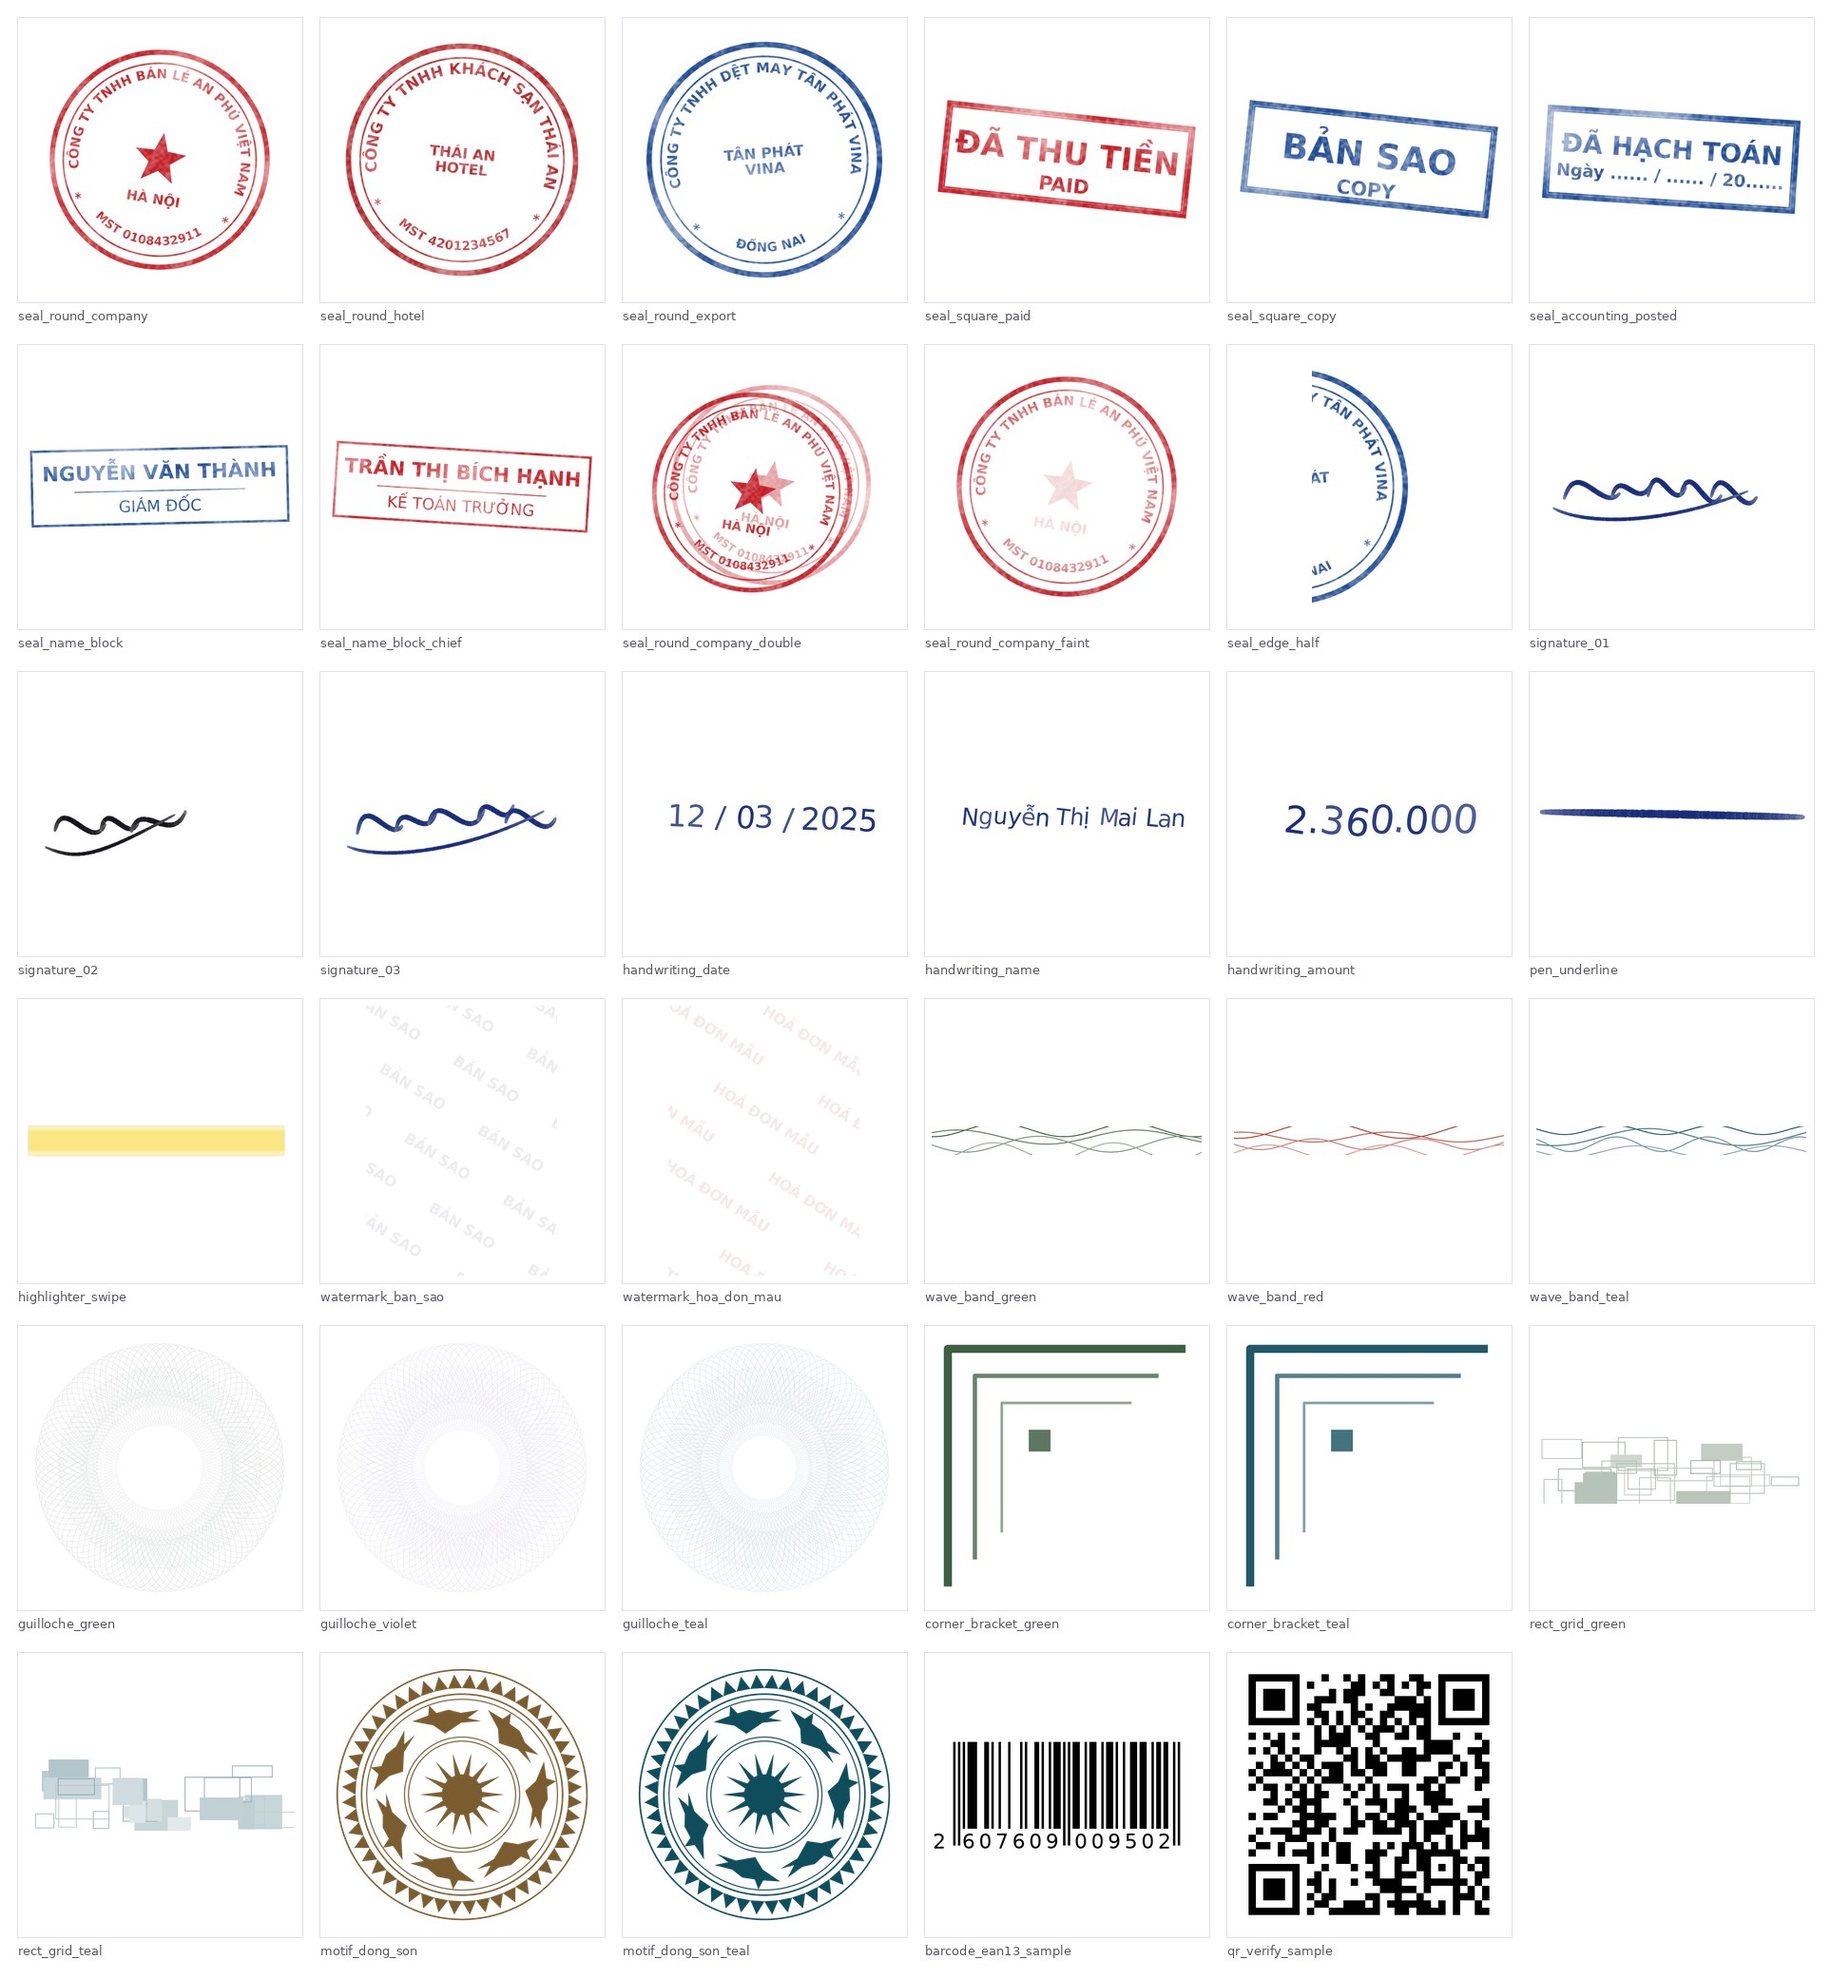
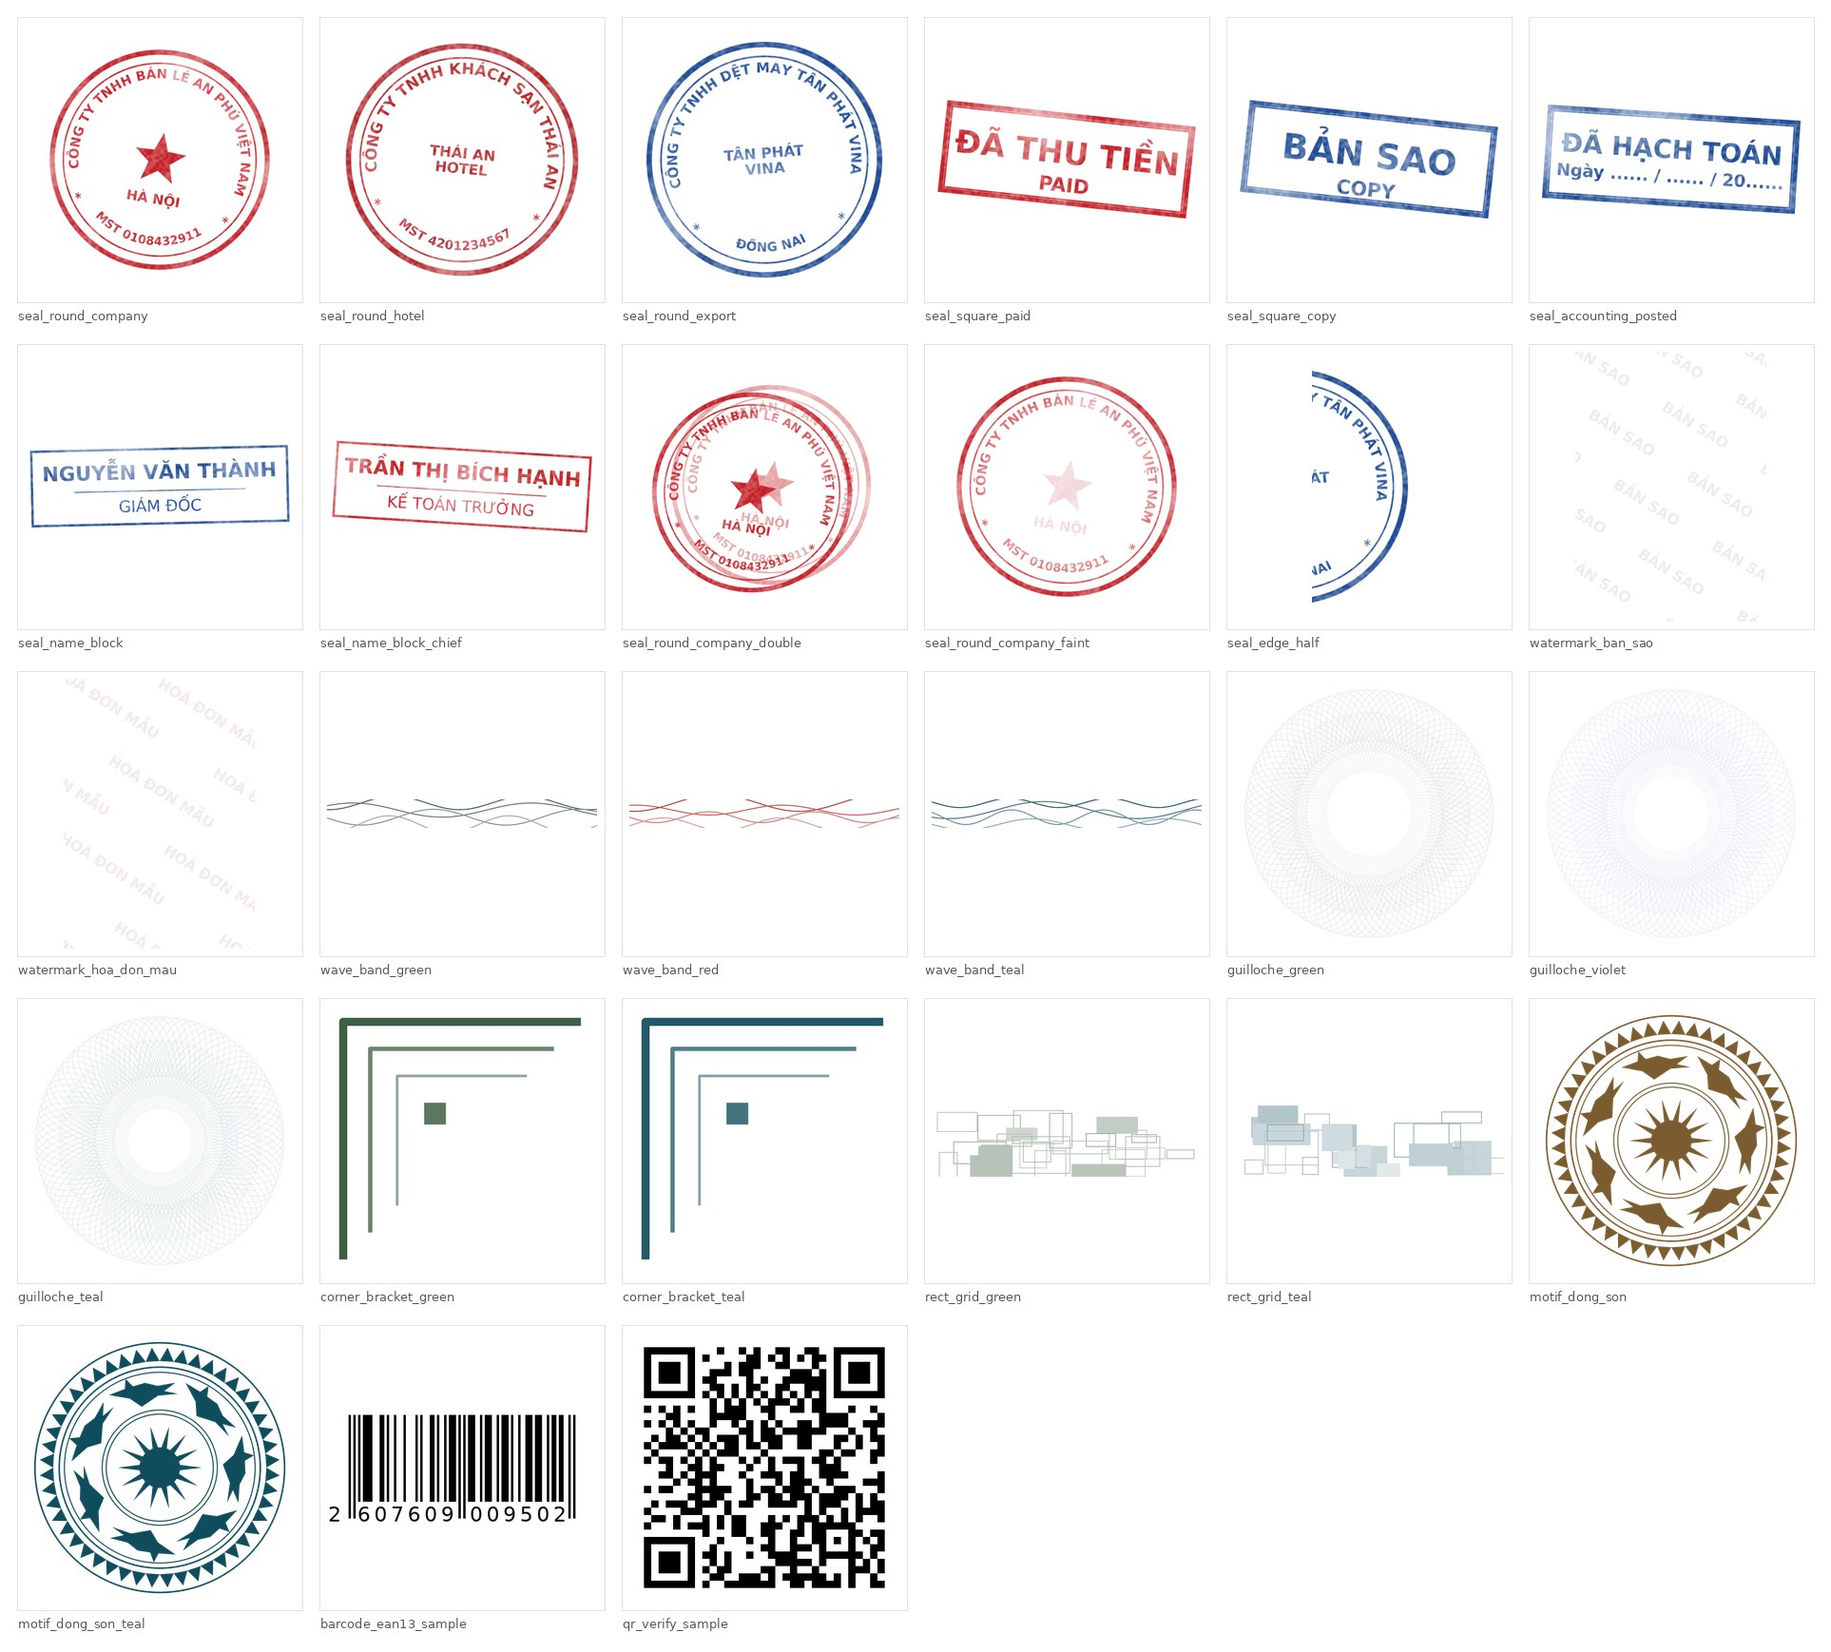
Drop the hand marks: a jittered typeface is not handwriting
Signatures, handwritten field values, pen underlines and highlighter swipes are
removed -- the code that drew them, the eight PNGs, and the `hand` node in
rules/ornament.yaml.

The fault was in the approach, not in the parameters. The handwriting took a
printed face and disturbed each glyph: slant, offset, weight. Beside a real
scan it is still printed type with a shake, because the stroke shapes are still
printed stroke shapes -- no lift of the pen, no joins, no ink pooling where a
stroke ends. The signature was a chain of Béziers with varying width, which
produces a squiggle; a real signature is a rehearsed motion, not a random
curve, and the difference is visible immediately.

Getting it right wants stroke data -- pen coordinates over time -- or a
hand-drawn face licensed for redistribution. It does not want more jitter,
which is the direction the last pass went and where it went wrong.

`seal_name_block` was in the `hand` node and is not a hand mark; it moves to
`seal`, paired with the round seal it is stamped beside on real Vietnamese
paper. That pairing is why it needs to share one value: the attribute draws
once per page.

Twenty-seven ornaments remain, all of them ink a machine laid down. The four
dropped are written into docs/hoa-tiet-de-xuat.md as surveyed-and-removed,
with what was tried and why it failed -- more useful than listing them as
never-attempted. `pen_underline` is noted as the one most easily rescued: a
[…]

diff --git a/tools/make_ornaments.py b/tools/make_ornaments.py
@@ -18,6 +18,13 @@ rotated to the tangent of a circle. So the drawing happens once, here, into PNGs
 with an alpha channel; the ageing and compositing that synthtiger and
 `degradation/` are good at then treat the result like any other overlay.
 
+**No hand marks here.** Signatures, handwritten field values, pen underlines
+and highlighter swipes were drawn and then dropped: a typeface jittered per
+glyph is not handwriting, and a procedural squiggle is not a signature. Both
+read as what they are the moment you put them beside a scan. Doing it properly
+needs stroke data or a hand-drawn face with a licence to redistribute, not more
+jitter -- see docs/hoa-tiet-de-xuat.md.
+
 Company names, tax codes and addresses below are invented for synthetic data.
 They are not real businesses.
 """
@@ -408,163 +415,6 @@ def name_block_seal(name: str, title: str, *, seed: int, width: int = 620,
     return canvas.rotate(rng.uniform(-6, 6), resample=Image.BICUBIC, expand=True)
 
 
-# ------------------------------------------------------------------ nét tay
-
-def _pen_stroke(draw: ImageDraw.ImageDraw, points: list[tuple[float, float]],
-                colour: tuple[int, int, int], width: float, rng: random.Random) -> None:
-    """Vẽ một nét bút: bề rộng thay đổi dọc nét, đậm nhạt theo tốc độ tay.
-
-    Vẽ bằng chuỗi hình tròn chồng nhau chứ không bằng `line`, vì `line` cho nét
-    đều tăm tắp -- thứ mà bút bi không bao giờ cho.
-    """
-    for index in range(len(points) - 1):
-        (x0, y0), (x1, y1) = points[index], points[index + 1]
-        steps = max(int(math.hypot(x1 - x0, y1 - y0) / 2) + 1, 1)
-        for step in range(steps):
-            t = step / steps
-            x, y = x0 + (x1 - x0) * t, y0 + (y1 - y0) * t
-            # nét mảnh dần ở hai đầu, và rung nhẹ suốt dọc
-            along = (index + t) / max(len(points) - 1, 1)
-            taper = 0.45 + 0.55 * math.sin(math.pi * min(max(along, 0), 1)) ** 0.4
-            r = width * taper * rng.uniform(0.85, 1.15) / 2
-            alpha = int(255 * min(taper * rng.uniform(0.80, 1.0) + 0.12, 1.0))
-            draw.ellipse([x - r, y - r, x + r, y + r], fill=colour + (alpha,))
-
-
-def _bezier(control: list[tuple[float, float]], samples: int = 60) -> list[tuple[float, float]]:
-    points = []
-    for step in range(samples + 1):
-        t = step / samples
-        current = list(control)
-        while len(current) > 1:
-            current = [(a[0] + (b[0] - a[0]) * t, a[1] + (b[1] - a[1]) * t)
-                       for a, b in zip(current, current[1:])]
-        points.append(current[0])
-    return points
-
-
-def signature(*, seed: int, width: int = 520, height: int = 200,
-              colour=(22, 42, 120)) -> Image.Image:
-    """Chữ ký tay: mấy vòng bút liền nhau, kết bằng một nét vẩy dài.
-
-    Không cố viết ra một cái tên. Chữ ký người Việt phần lớn là nét bút liên
-    tục không đọc được thành chữ, nên cái cần dựng là ĐỘNG TÁC -- vòng, gấp
-    khúc, vẩy đuôi -- chứ không phải mặt chữ.
-    """
-    rng = random.Random(seed)
-    w, h = width * SS, height * SS
-    canvas = Image.new("RGBA", (w, h), (0, 0, 0, 0))
-    draw = ImageDraw.Draw(canvas)
-    pen = int(h * 0.045)
-
-    x = w * 0.10
-    baseline = h * 0.62
-    for loop in range(rng.randint(3, 5)):
-        span = w * rng.uniform(0.13, 0.22)
-        control = [
-            (x, baseline + rng.uniform(-h * 0.05, h * 0.05)),
-            (x + span * 0.2, baseline - h * rng.uniform(0.28, 0.46)),
-            (x + span * 0.7, baseline + h * rng.uniform(0.10, 0.30)),
-            (x + span, baseline - h * rng.uniform(0.02, 0.18)),
-        ]
-        _pen_stroke(draw, _bezier(control), colour, pen, rng)
-        x += span * rng.uniform(0.72, 0.92)
-
-    # nét vẩy cuối, dài và mảnh, quét ngược lại dưới chữ ký
-    tail = [(x, baseline - h * 0.10), (x - w * 0.30, baseline + h * 0.26),
-            (w * 0.18, baseline + h * 0.30), (w * 0.06, baseline + h * 0.14)]
-    _pen_stroke(draw, _bezier(tail), colour, pen * 0.7, rng)
-
-    canvas = canvas.resize((width, height), Image.LANCZOS)
-    return canvas.filter(ImageFilter.GaussianBlur(0.3)).rotate(
-        rng.uniform(-4, 4), resample=Image.BICUBIC, expand=True)
-
-
-def handwriting(text: str, *, seed: int, height: int = 90,
-                colour=(22, 42, 120)) -> Image.Image:
-    """Chữ điền tay vào chỗ trống của tờ mẫu in sẵn.
-
-    Dựng bằng cách lấy một mặt chữ có sẵn rồi làm lệch từng ký tự -- nghiêng,
-    xê dịch, phóng to thu nhỏ, đậm nhạt không đều -- chứ không dựng nét viết
-    tay thật. Đủ để không còn ra dáng chữ in máy, và đủ khác nhau giữa hai lần
-    gọi, nhưng KHÔNG phải chữ viết tay thật: muốn thật thì phải nhúng một mặt
-    chữ viết tay có giấy phép cho phép phát hành lại, việc đó chưa làm.
-    """
-    rng = random.Random(seed)
-    size = int(height * SS * 0.72)
-    font = ImageFont.truetype(FONT_REG, size)
-    # Một người viết nghiêng MỘT góc suốt dòng; chỉ chệch quanh góc ấy vài độ.
-    # Cho mỗi ký tự một góc độc lập thì ra chữ cắt dán chứ không ra chữ viết.
-    slant = rng.uniform(-9, -2)
-    pad = size
-    guess = int(sum(font.getlength(ch) for ch in text) * 1.15) + pad * 2
-    canvas = Image.new("RGBA", (guess, height * SS), (0, 0, 0, 0))
-
-    x = float(pad)
-    baseline = height * SS * 0.18
-    for ch in text:
-        advance = font.getlength(ch)
-        if ch == " ":
-            x += advance * rng.uniform(0.9, 1.3)
-            continue
-        glyph = Image.new("RGBA", (int(advance) + size, size * 2), (0, 0, 0, 0))
-        alpha = int(255 * rng.uniform(0.72, 1.0))
-        ImageDraw.Draw(glyph).text((size // 4, 0), ch, font=font, fill=colour + (alpha,))
-        glyph = glyph.rotate(slant + rng.uniform(-2.2, 2.2), resample=Image.BICUBIC,
-                             center=(size // 4, size), expand=False)
-        scale = rng.uniform(0.975, 1.035)
-        glyph = glyph.resize((max(int(glyph.width * scale), 1),
-                              max(int(glyph.height * scale), 1)), Image.LANCZOS)
-        canvas.alpha_composite(glyph, (int(x), int(baseline + rng.uniform(-size * 0.035,
-                                                                         size * 0.035))))
-        x += advance * rng.uniform(0.94, 1.02)
-
-    canvas = canvas.crop((0, 0, min(int(x) + pad, canvas.width), canvas.height))
-    canvas = canvas.resize((canvas.width // SS, height), Image.LANCZOS)
-    return canvas.rotate(rng.uniform(-1.6, 1.6), resample=Image.BICUBIC, expand=True)
-
-
-def pen_underline(*, seed: int, width: int = 460, height: int = 40,
-                  colour=(22, 42, 120)) -> Image.Image:
-    """Gạch chân bằng bút: đường tay run, quá tay ở hai đầu."""
-    rng = random.Random(seed)
-    w, h = width * SS, height * SS
-    canvas = Image.new("RGBA", (w, h), (0, 0, 0, 0))
-    draw = ImageDraw.Draw(canvas)
-    mid = h * 0.55
-    control = [(w * 0.02, mid + rng.uniform(-h * 0.12, h * 0.12)),
-               (w * 0.35, mid + rng.uniform(-h * 0.20, h * 0.05)),
-               (w * 0.70, mid + rng.uniform(-h * 0.05, h * 0.20)),
-               (w * 0.99, mid + rng.uniform(-h * 0.14, h * 0.14))]
-    _pen_stroke(draw, _bezier(control, 90), colour, h * 0.30, rng)
-    return canvas.resize((width, height), Image.LANCZOS)
-
-
-def highlighter_swipe(*, seed: int, width: int = 520, height: int = 90,
-                      colour=(246, 214, 46)) -> Image.Image:
-    """Vệt bút dạ quang: mép vệt đậm hơn giữa vệt, hai đầu tù.
-
-    Mực dạ quang trong suốt nên chữ dưới vẫn đọc được -- alpha ở đây cố tình
-    thấp, và bên ghép ảnh phải nhân chứ không phủ, nếu không chữ sẽ mất.
-    """
-    rng = random.Random(seed)
-    w, h = width * SS, height * SS
-    canvas = Image.new("RGBA", (w, h), (0, 0, 0, 0))
-    draw = ImageDraw.Draw(canvas)
-    top = h * rng.uniform(0.16, 0.26)
-    bottom = h * rng.uniform(0.74, 0.86)
-    left, right = w * rng.uniform(0.01, 0.05), w * rng.uniform(0.95, 0.99)
-    draw.rounded_rectangle([left, top, right, bottom], radius=h * 0.12,
-                           fill=colour + (150,))
-    # mép trên và mép dưới đậm hơn: đầu bút tì mạnh ở hai biên
-    draw.line([(left, top + h * 0.05), (right, top + h * 0.05)],
-              fill=colour + (90,), width=int(h * 0.10))
-    draw.line([(left, bottom - h * 0.05), (right, bottom - h * 0.05)],
-              fill=colour + (90,), width=int(h * 0.10))
-    canvas = canvas.resize((width, height), Image.LANCZOS)
-    return canvas.filter(ImageFilter.GaussianBlur(1.2))
-
-
 # ----------------------------------------------------- chữ chìm và hoa văn
 
 def diagonal_watermark(text: str, *, seed: int, width: int = 1240, height: int = 1754,
@@ -827,15 +677,6 @@ def main() -> None:
         ("seal_round_company_faint", _ring_only(company)),
         ("seal_edge_half", edge_seal(export)),
 
-        # --- nét tay
-        ("signature_01", signature(seed=101)),
-        ("signature_02", signature(seed=102, colour=(18, 18, 24))),
-        ("signature_03", signature(seed=103)),
-        ("handwriting_date", handwriting("12 / 03 / 2025", seed=111)),
-        ("handwriting_name", handwriting("Nguyễn Thị Mai Lan", seed=112)),
-        ("handwriting_amount", handwriting("2.360.000", seed=113)),
-        ("pen_underline", pen_underline(seed=121)),
-        ("highlighter_swipe", highlighter_swipe(seed=131)),
 
         # --- nét in bảo an
         ("watermark_ban_sao", diagonal_watermark("BẢN SAO", seed=141)),

diff --git a/rulebase/README.md b/rulebase/README.md
@@ -477,15 +477,21 @@ Position is named, not measured: `anchor: signature_seller` rather than a pair
 of coordinates. A seal belongs over the seller's signature on a 148mm folio and
 on a 210mm form alike, and the two have that place in different millimetres.
 
-Three marks carry `from_receipt: true`: the handwritten fields, the shelf
-barcode and the verification QR. Their content comes from the values the
-rule-base already drew for that page, so the file in `textures/ornament/` is a
-sample to look at and not the thing to composite — a fixed barcode pasted onto
-a receipt whose label says a different number is the exact defect
-`pipeline/invariants.py` exists to catch.
+Two marks carry `from_receipt: true`: the shelf barcode and the verification
+QR. Their content comes from the values the rule-base already drew for that
+page, so the file in `textures/ornament/` is a sample to look at and not the
+thing to composite — a fixed barcode pasted onto a receipt whose label says a
+different number is the exact defect `pipeline/invariants.py` exists to catch.
 
-Nineteen more were surveyed and not built; they are written down with the reason
-each was left, in [docs/hoa-tiet-de-xuat.md](../docs/hoa-tiet-de-xuat.md).
+**There are no hand marks.** Signatures, handwritten field values, pen
+underlines and highlighter swipes were drawn and then removed: a typeface
+jittered per glyph is not handwriting, and a procedural squiggle is not a
+signature. Doing it properly wants stroke data or a hand-drawn face licensed
+for redistribution.
+
+Twenty-three ornaments were surveyed and not built — those four among them.
+Each is written down with the reason it was left, in
+[docs/hoa-tiet-de-xuat.md](../docs/hoa-tiet-de-xuat.md).
 
 > **Not yet drawn.** The attribute is sampled and recorded in `metadata.jsonl`,
 > and every asset it names exists. No renderer composites it onto the page yet —
